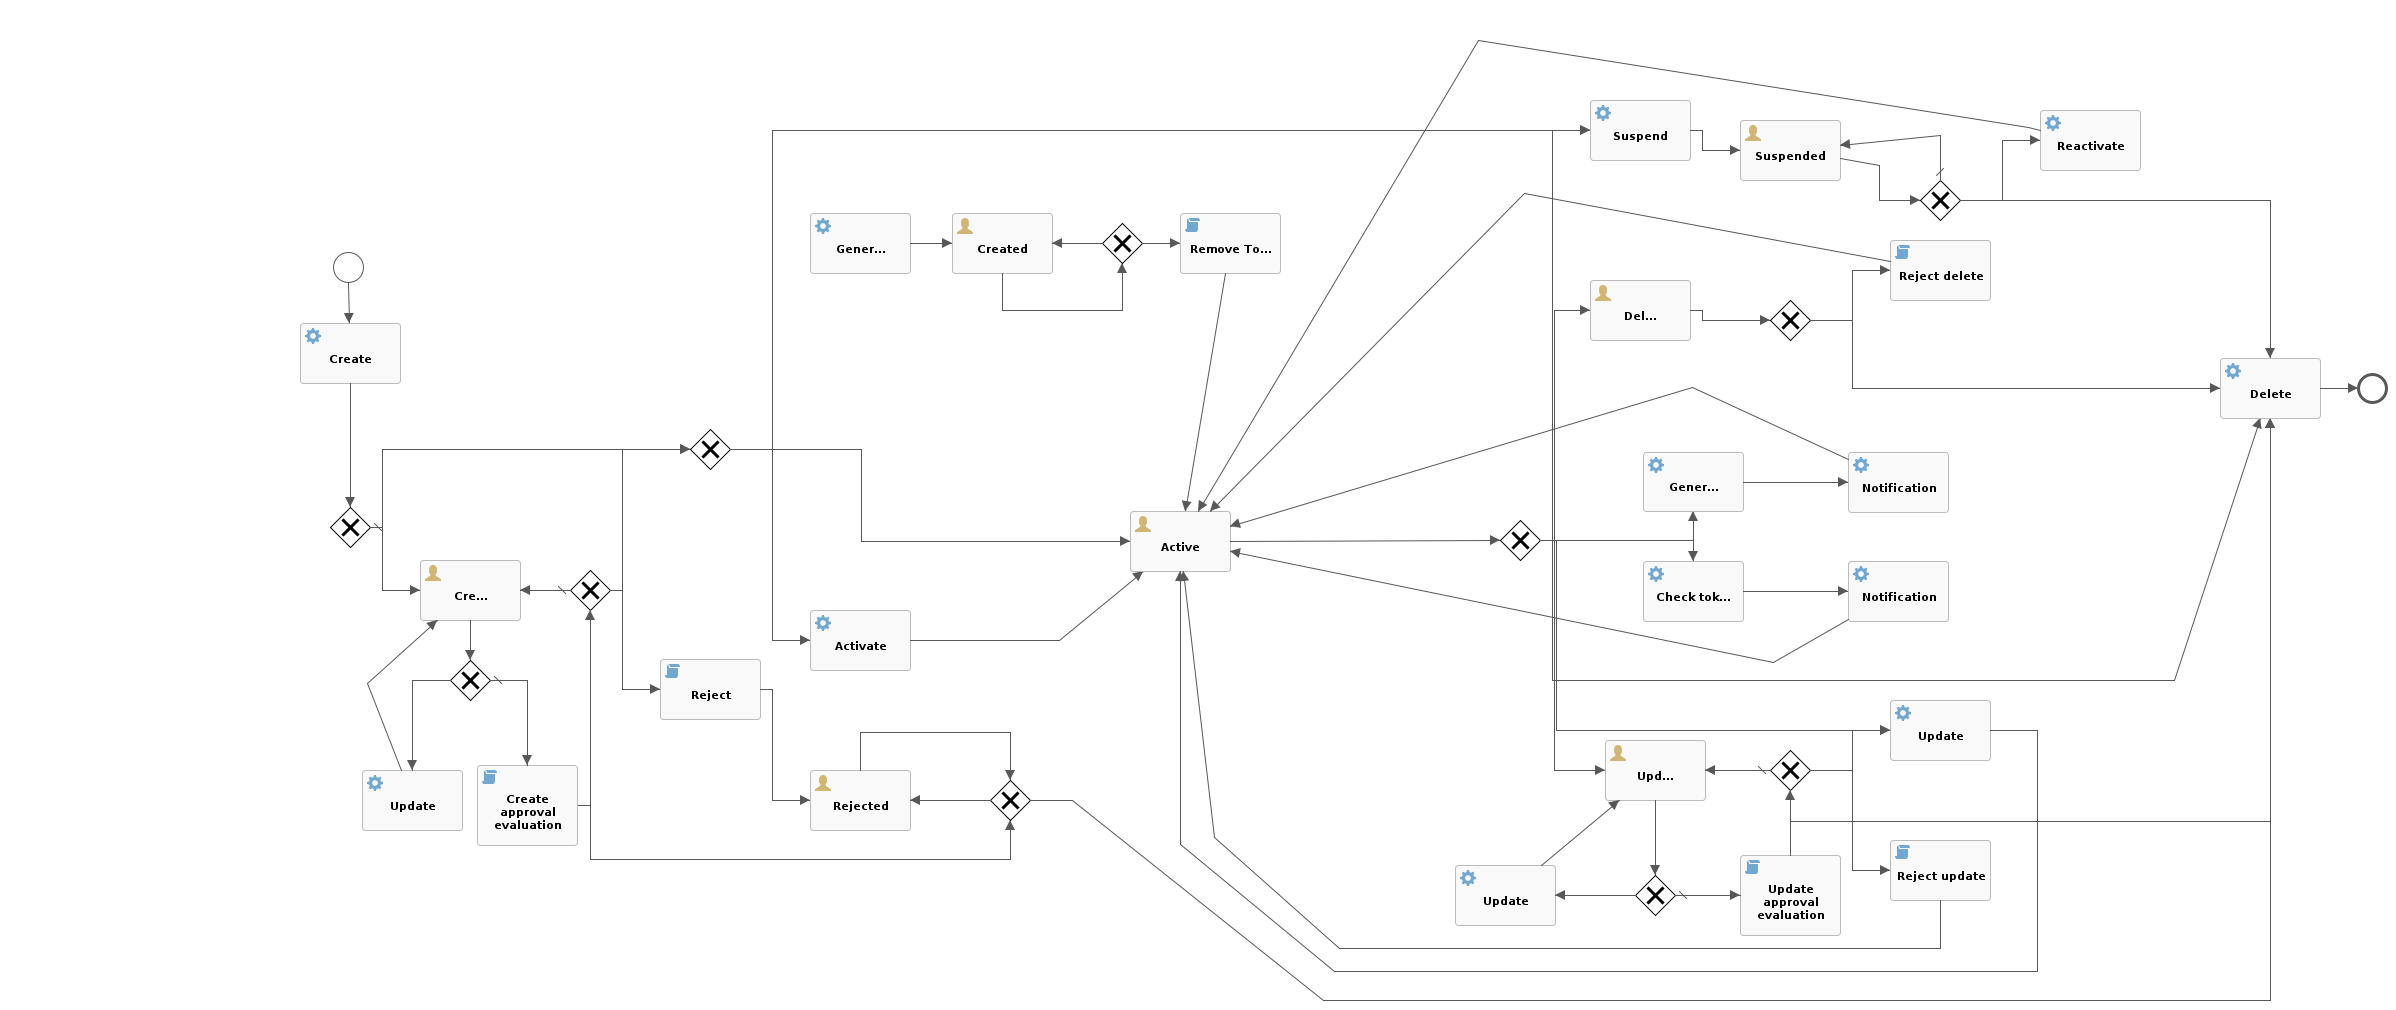
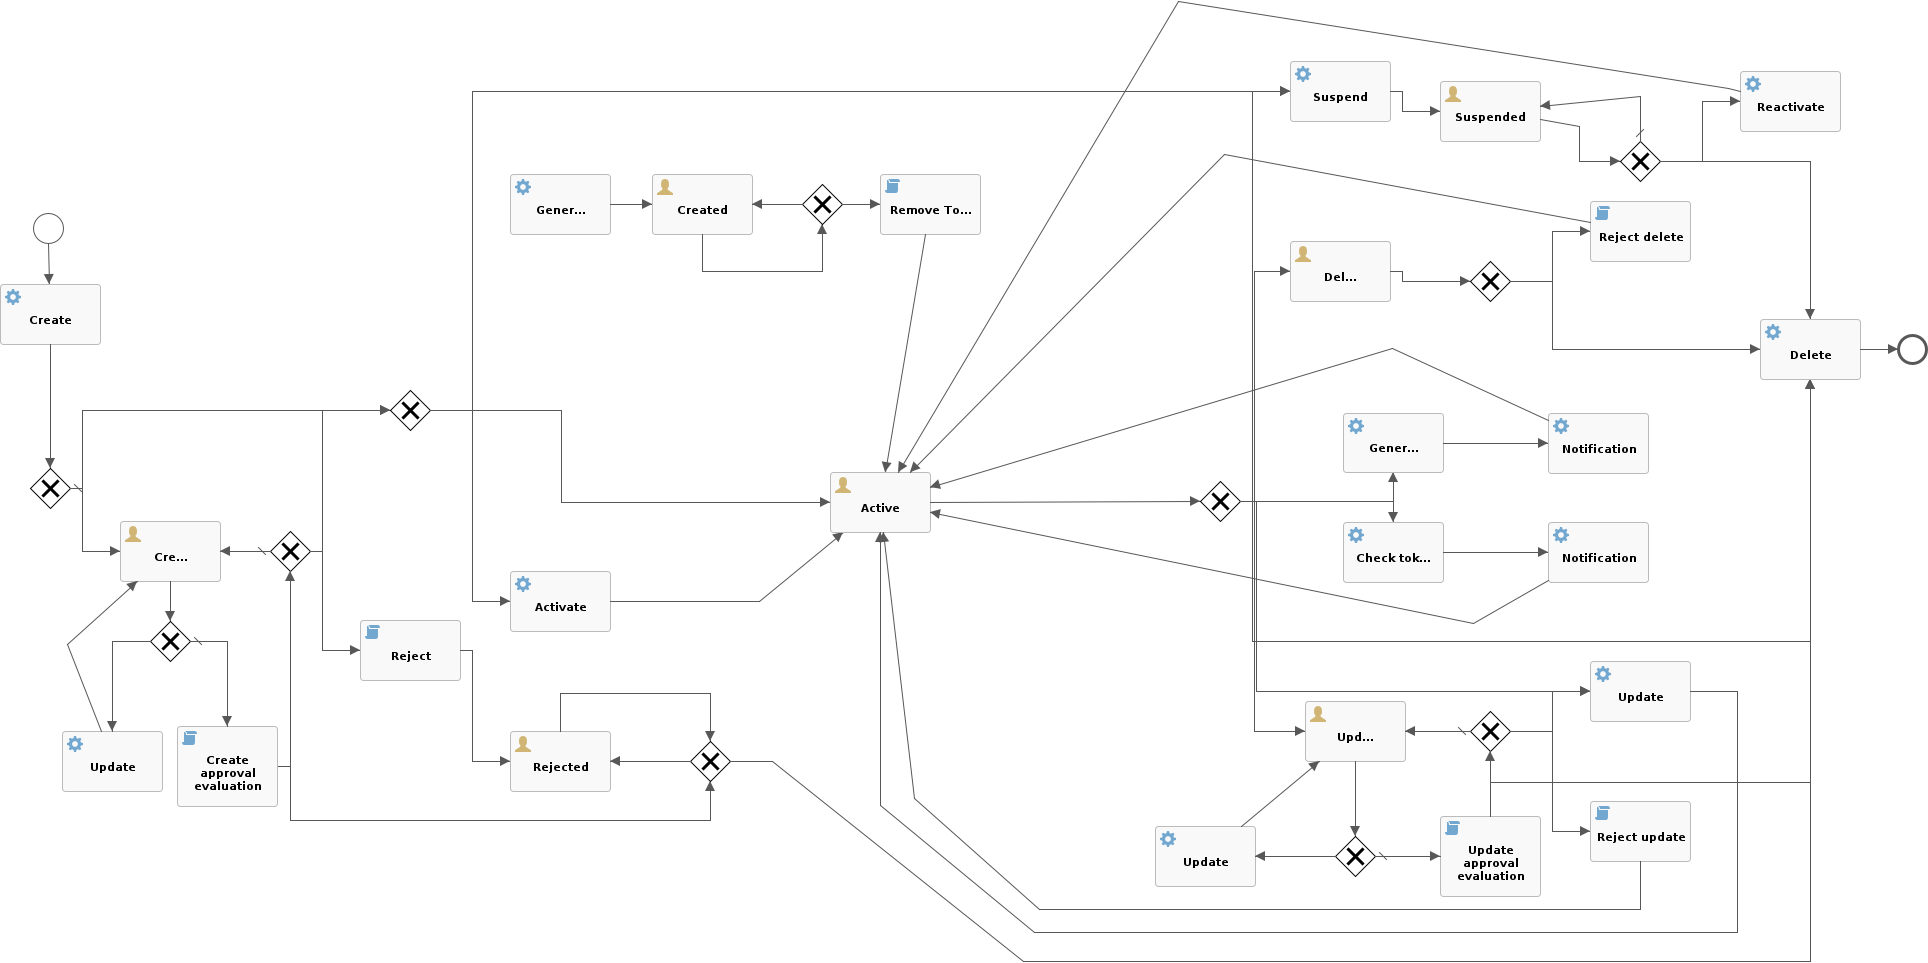
Fixes and doc

diff --git a/core/workflow-java/src/main/java/org/apache/syncope/core/workflow/java/DefaultUserWorkflowAdapter.java b/core/workflow-java/src/main/java/org/apache/syncope/core/workflow/java/DefaultUserWorkflowAdapter.java
@@ -80,9 +80,11 @@ public class DefaultUserWorkflowAdapter extends AbstractUserWorkflowAdapter {
         this.notificationManager = notificationManager;
     }
 
-    protected void throwApprovalRequired(final boolean condition) {
-        if (condition && confParamOps.get(
-                AuthContextUtils.getDomain(), "default.workflow.requires.approval", true, boolean.class)) {
+    protected void throwApprovalRequired(final String executor, final boolean condition) {
+        if (!securityProperties.getAdminUser().equals(executor)
+                && confParamOps.get(
+                        AuthContextUtils.getDomain(), "default.workflow.requires.approval", true, boolean.class)
+                && condition) {
 
             throw new WorkflowException(new UnsupportedOperationException("This operation requires approval"));
         }
@@ -96,7 +98,7 @@ public class DefaultUserWorkflowAdapter extends AbstractUserWorkflowAdapter {
             final String creator,
             final String context) {
 
-        throwApprovalRequired(userCR.requiresApproval());
+        throwApprovalRequired(creator, userCR.requiresApproval());
 
         User user = entityFactory.newEntity(User.class);
         dataBinder.create(user, userCR);
@@ -158,7 +160,7 @@ public class DefaultUserWorkflowAdapter extends AbstractUserWorkflowAdapter {
     protected UserWorkflowResult<Pair<UserUR, Boolean>> doUpdate(
             final User user, final UserUR userUR, final String updater, final String context) {
 
-        throwApprovalRequired(userUR.requiresApproval());
+        throwApprovalRequired(updater, userUR.requiresApproval());
 
         UserWorkflowResult.PropagationInfo propInfo = dataBinder.update(user, userUR);
 

diff --git a/fit/core-reference/src/test/java/org/apache/syncope/fit/core/UserIssuesITCase.java b/fit/core-reference/src/test/java/org/apache/syncope/fit/core/UserIssuesITCase.java
@@ -27,6 +27,7 @@ import static org.junit.jupiter.api.Assertions.assertNull;
 import static org.junit.jupiter.api.Assertions.assertTrue;
 import static org.junit.jupiter.api.Assertions.fail;
 import static org.junit.jupiter.api.Assumptions.assumeFalse;
+import static org.junit.jupiter.api.Assumptions.assumeTrue;
 
 import com.fasterxml.jackson.core.JsonProcessingException;
 import jakarta.ws.rs.HttpMethod;
@@ -1550,6 +1551,8 @@ public class UserIssuesITCase extends AbstractITCase {
 
     @Test
     public void issueSYNCOPE1793() {
+        assumeTrue(IS_FLOWABLE_ENABLED);
+
         RoleTO role = new RoleTO();
         role.setKey("syncope1793" + getUUIDString());
         role.getRealms().add(SyncopeConstants.ROOT_REALM);